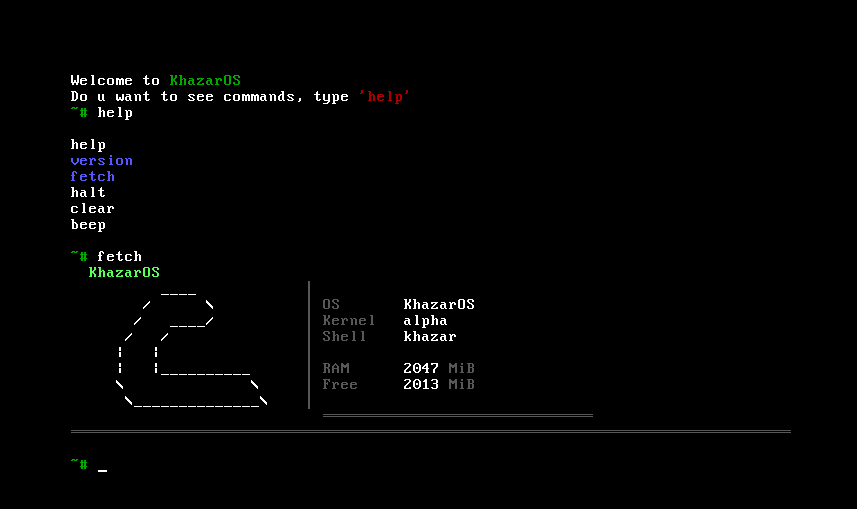
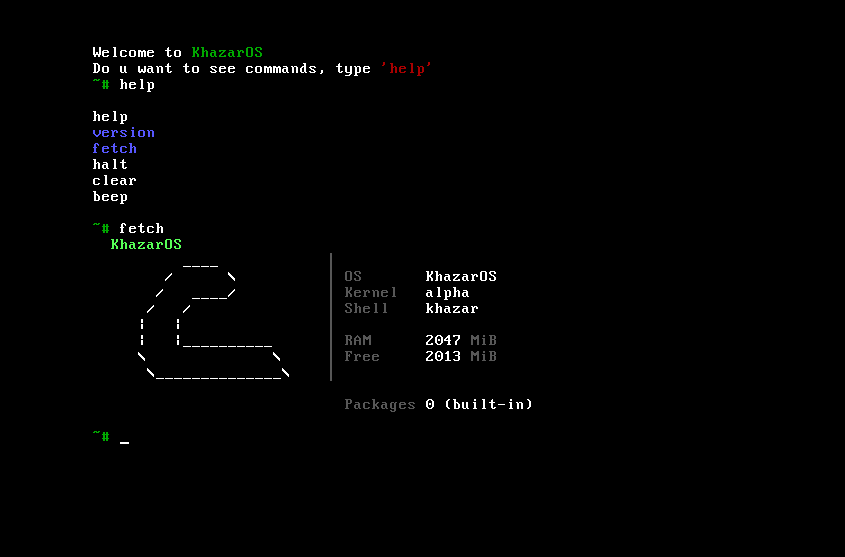
shell

diff --git a/src/shell/commands/fetch.c b/src/shell/commands/fetch.c
@@ -1,17 +1,17 @@
-#include "vga.h"
-#include "types.h"
-#include "pmm.h"
 #include "commands.h"
+#include "pmm.h"
+#include "types.h"
+#include "vga.h"
 
 static const U8 *logo_lines[] = {
-    (STR8_C)"        ____",
-    (STR8_C)"      /      \\",
-    (STR8_C)"     /   ____/",
-    (STR8_C)"    /   /",
-    (STR8_C)"   |   |",
-    (STR8_C)"   |   |__________",
-    (STR8_C)"   \\              \\",
-    (STR8_C)"    \\______________\\",
+    (STR8_C) "        ____",
+    (STR8_C) "      /      \\",
+    (STR8_C) "     /   ____/",
+    (STR8_C) "    /   /",
+    (STR8_C) "   |   |",
+    (STR8_C) "   |   |__________",
+    (STR8_C) "   \\              \\",
+    (STR8_C) "    \\______________\\",
 };
 
 #define LOGO_LINES 8
@@ -19,104 +19,110 @@ static const U8 *logo_lines[] = {
 #define SEP_CHAR 0xB3
 
 static void write_at(const U8 *str, U8 color, I32 col, I32 row) {
-    I32 offset = get_offset(col, row);
-    for (I32 i = 0; str[i] != '\0'; i++) {
-        set_char_w_color(str[i], color, offset);
-        offset += 2;
-    }
+  I32 offset = get_offset(col, row);
+  for (I32 i = 0; str[i] != '\0'; i++) {
+    set_char_w_color(str[i], color, offset);
+    offset += 2;
+  }
 }
 
 static void fill_at(U8 ch, U8 color, I32 col, I32 row, I32 count) {
-    I32 offset = get_offset(col, row);
-    for (I32 i = 0; i < count; i++) {
-        set_char_w_color(ch, color, offset);
-        offset += 2;
-    }
+  I32 offset = get_offset(col, row);
+  for (I32 i = 0; i < count; i++) {
+    set_char_w_color(ch, color, offset);
+    offset += 2;
+  }
 }
 
 static I32 dec_len(U64 n) {
-    if (n == 0) return 1;
-    I32 len = 0;
-    while (n > 0) { n /= 10; len++; }
-    return len;
+  if (n == 0)
+    return 1;
+  I32 len = 0;
+  while (n > 0) {
+    n /= 10;
+    len++;
+  }
+  return len;
 }
 
 static void write_num_at(U64 n, U8 color, I32 col, I32 row) {
-    U8 buf[12];
-    I32 len = dec_len(n);
-    buf[len] = '\0';
-    if (n == 0) {
-        buf[0] = '0';
-        len = 1;
-    } else {
-        I32 i = len - 1;
-        U64 m = n;
-        while (m > 0) {
-            buf[i--] = '0' + (m % 10);
-            m /= 10;
-        }
+  U8 buf[12];
+  I32 len = dec_len(n);
+  buf[len] = '\0';
+  if (n == 0) {
+    buf[0] = '0';
+    len = 1;
+  } else {
+    I32 i = len - 1;
+    U64 m = n;
+    while (m > 0) {
+      buf[i--] = '0' + (m % 10);
+      m /= 10;
     }
-    I32 offset = get_offset(col, row);
-    for (I32 i = 0; i < len; i++) {
-        set_char_w_color(buf[i], color, offset);
-        offset += 2;
-    }
+  }
+  I32 offset = get_offset(col, row);
+  for (I32 i = 0; i < len; i++) {
+    set_char_w_color(buf[i], color, offset);
+    offset += 2;
+  }
 }
 
 static U0 fetch(U0) {
-    I32 cur_offset = cursor_get();
-    I32 cur_row = get_row(cur_offset);
-    I32 base_row = (cur_row > 0) ? cur_row : 0;
+  I32 cur_offset = cursor_get();
+  I32 cur_row = get_row(cur_offset);
+  I32 base_row = (cur_row > 0) ? cur_row : 0;
 
-    I32 start_row = base_row + 1;
-    I32 logo_col = 2;
-    I32 info_col = 28;
-    I32 i;
+  I32 start_row = base_row + 1;
+  I32 logo_col = 2;
+  I32 info_col = 28;
+  I32 i;
 
-    write_at((STR8_C)"  KhazarOS", COLOR_LIGHT_GREEN, 0, base_row);
+  write_at((STR8_C) "  KhazarOS", COLOR_LIGHT_GREEN, 0, base_row);
 
-    for (i = 0; i < LOGO_LINES; i++) {
-        write_at(logo_lines[i], COLOR_WHITE, logo_col, start_row + i);
-    }
+  for (i = 0; i < LOGO_LINES; i++) {
+    write_at(logo_lines[i], COLOR_WHITE, logo_col, start_row + i);
+  }
 
-    for (i = 0; i < LOGO_LINES; i++) {
-        set_char_w_color(SEP_CHAR, COLOR_DARK_GREY, get_offset(info_col - 2, start_row + i));
-    }
+  for (i = 0; i < LOGO_LINES; i++) {
+    set_char_w_color(SEP_CHAR, COLOR_DARK_GREY,
+                     get_offset(info_col - 2, start_row + i));
+  }
 
-    U64 total_mb = total_memory / 1024 / 1024;
-    U64 free_mb  = (total_memory > allocated_memory)
-                   ? (total_memory - allocated_memory) / 1024 / 1024 : 0;
+  U64 total_mb = total_memory / 1024 / 1024;
+  U64 free_mb = (total_memory > allocated_memory)
+                    ? (total_memory - allocated_memory) / 1024 / 1024
+                    : 0;
 
-    I32 row = start_row + 1;
+  I32 row = start_row + 1;
 
-    write_at((STR8_C)"OS",         COLOR_DARK_GREY,  info_col, row);
-    write_at((STR8_C)"KhazarOS",   COLOR_WHITE,      info_col + 9, row);
+  write_at((STR8_C) "OS", COLOR_DARK_GREY, info_col, row);
+  write_at((STR8_C) "KhazarOS", COLOR_WHITE, info_col + 9, row);
 
-    write_at((STR8_C)"Kernel",     COLOR_DARK_GREY,  info_col, row + 1);
-    write_at((STR8_C)"alpha",      COLOR_WHITE,      info_col + 9, row + 1);
+  write_at((STR8_C) "Kernel", COLOR_DARK_GREY, info_col, row + 1);
+  write_at((STR8_C) "alpha", COLOR_WHITE, info_col + 9, row + 1);
 
-    write_at((STR8_C)"Shell",      COLOR_DARK_GREY,  info_col, row + 2);
-    write_at((STR8_C)"khazar",     COLOR_WHITE,      info_col + 9, row + 2);
+  write_at((STR8_C) "Shell", COLOR_DARK_GREY, info_col, row + 2);
+  write_at((STR8_C) "khazar", COLOR_WHITE, info_col + 9, row + 2);
 
-    write_at((STR8_C)"RAM",        COLOR_DARK_GREY,  info_col, row + 4);
-    write_num_at(total_mb, COLOR_WHITE, info_col + 9, row + 4);
-    write_at((STR8_C)"MiB",        COLOR_DARK_GREY,  info_col + 9 + dec_len(total_mb) + 1, row + 4);
+  write_at((STR8_C) "RAM", COLOR_DARK_GREY, info_col, row + 4);
+  write_num_at(total_mb, COLOR_WHITE, info_col + 9, row + 4);
+  write_at((STR8_C) "MiB", COLOR_DARK_GREY,
+           info_col + 9 + dec_len(total_mb) + 1, row + 4);
 
-    write_at((STR8_C)"Free",       COLOR_DARK_GREY,  info_col, row + 5);
-    write_num_at(free_mb, COLOR_WHITE, info_col + 9, row + 5);
-    write_at((STR8_C)"MiB",        COLOR_DARK_GREY,  info_col + 9 + dec_len(free_mb) + 1, row + 5);
+  write_at((STR8_C) "Free", COLOR_DARK_GREY, info_col, row + 5);
+  write_num_at(free_mb, COLOR_WHITE, info_col + 9, row + 5);
+  write_at((STR8_C) "MiB", COLOR_DARK_GREY, info_col + 9 + dec_len(free_mb) + 1,
+           row + 5);
 
-    fill_at(0xCD, COLOR_DARK_GREY, info_col, row + 7, 30);
+  write_at((STR8_C) "Packages", COLOR_DARK_GREY, info_col, row + 8);
+  write_at((STR8_C) "0 (built-in)", COLOR_WHITE, info_col + 9, row + 8);
 
-    write_at((STR8_C)"Packages",   COLOR_DARK_GREY,  info_col, row + 8);
-    write_at((STR8_C)"0 (built-in)", COLOR_WHITE,    info_col + 9, row + 8);
+  I32 end_row = start_row + LOGO_LINES + 1;
 
-    I32 end_row = start_row + LOGO_LINES + 1;
-    fill_at(0xCD, COLOR_DARK_GREY, 0, end_row, 80);
-    cursor_set(get_offset(0, end_row + 1));
+  cursor_set(get_offset(0, end_row + 1));
 }
 
-U0 cmd_fetch(char *args){
-    (U0)args;
-    fetch();
+U0 cmd_fetch(char *args) {
+  (U0) args;
+  fetch();
 }
